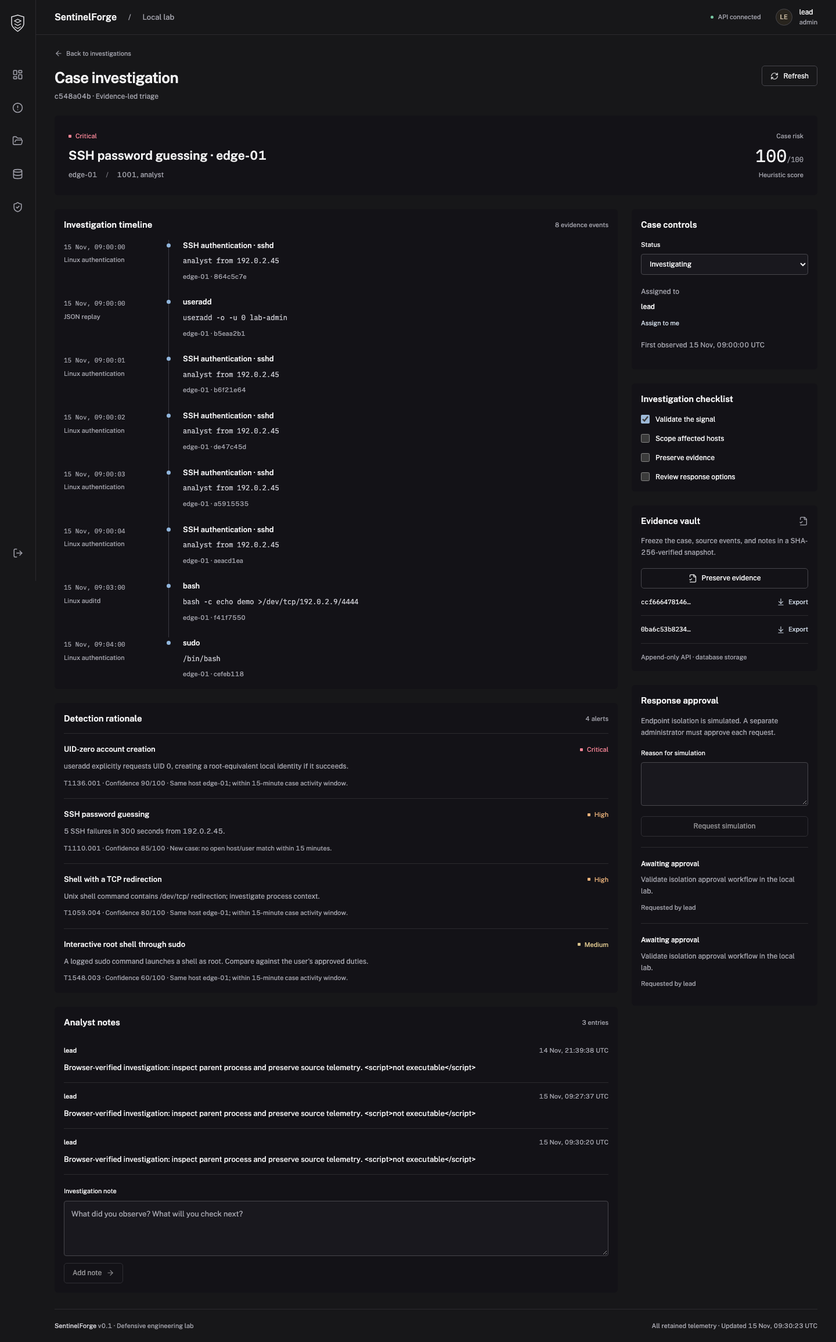
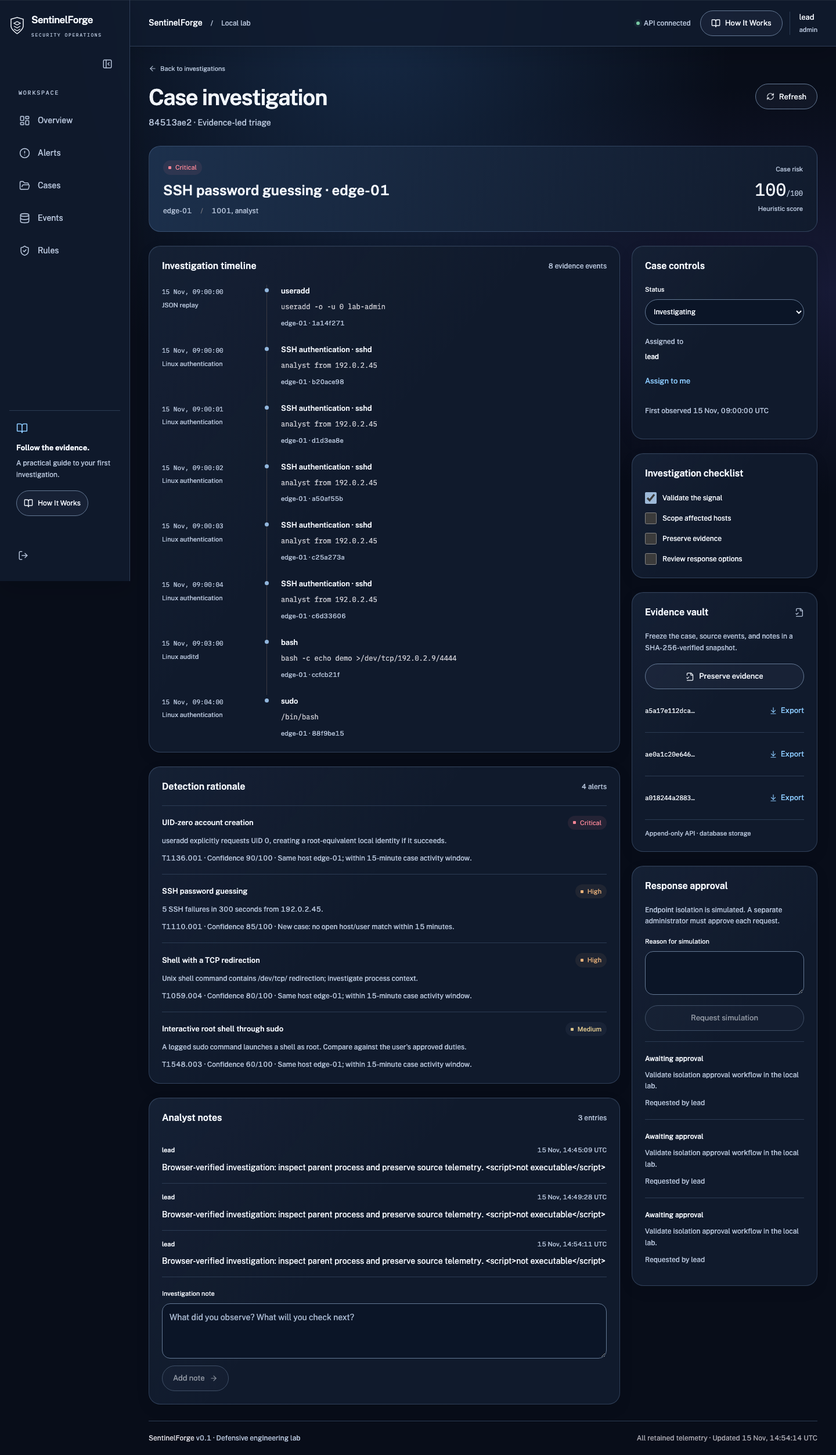
Document modernization design system security review and validation

diff --git a/docs/MODERNIZATION.md b/docs/MODERNIZATION.md
@@ -1,0 +1,70 @@
+# SentinelForge modernization — 2026-11-15
+
+This release updates the existing React/FastAPI platform with a midnight liquid-glass interface and a complete `/how-it-works` guide. The detection pipeline, authentication modes, API contracts, database operations and synthetic public-demo boundary are preserved.
+
+## Environment and discovery
+
+The official OpenAI curated skill catalog was inspected with the bundled Skill Installer. Installed capabilities already covered the work: Skill Creator/Installer, security-best-practices, frontend design guidance, the Vercel React/deployment/services/verification skills, native browser control, repository Playwright, and connected GitHub/Vercel tools. Plugin catalog discovery confirmed GitHub and Vercel were available. No duplicate external skill or plugin was installed.
+
+The pre-existing repository-specific `sentinelforge-design-system` skill was adopted, configured as version 1.1.0, given a default prompt and validated successfully with Skill Creator's `quick_validate.py`. It now references the implemented tokens/components and accurately documents unavailable Codex Security tooling. Deque's official `@axe-core/playwright` 4.14.0 was added as a development-only accessibility tool; no runtime UI, routing or animation dependency was added.
+
+Parallel frontend/security review attempts hit an account usage limit. Review continued in the main session. This report does not claim independent reviews or unavailable proprietary scans.
+
+## Architecture and actual capabilities
+
+- React 19 / TypeScript 5.9 / Vite 7 / Tailwind 4; self-hosted Public Sans and IBM Plex Mono; Lucide icons. The existing workspace retains state-based views, now synchronized with validated `?view=` URLs and browser history. The guide is loaded through React.lazy and has a separate Vite HTML entry for direct loading and metadata.
+- Python 3.12 / FastAPI / Pydantic / SQLAlchemy. SQLite for native local use and PostgreSQL for Docker. All existing API contracts, role dependencies, body caps, input models and evidence calculations remain unchanged.
+- Six supported input adapters, seven experimental behavior rules with a documented Sigma subset and pinned MITRE ATT&CK metadata. Host/non-generic-user correlation uses a 15-minute case activity window. Cases retain notes, checklist, assignment/status, evidence snapshots and simulation approvals.
+- Authenticated mode uses viewer/analyst/admin/ingest identities. The explicit token-free launcher binds loopback and validates peer/Host/Origin/Fetch Metadata. The Vercel entrypoint isolates a fixed synthetic snapshot in an in-memory query-only database and rejects mutations.
+- Vercel retains the existing frontend/backend Services project and Git production integration. GitHub Actions retains backend/PostgreSQL, authenticated browser and Compose jobs, with new public-demo/guide/axe coverage.
+
+## Interface and guide
+
+The desktop rail is now a labeled, collapsible sidebar. Mobile uses a dialog menu with focus wrapping, Escape and focus restoration. Navy surfaces, fine blue edges, inset highlights, restrained reflections and selective backdrop blur create depth; evidence tables remain opaque. Pill buttons, navigation, filters, input controls and status chips share focus/hover/disabled treatments. Layouts reflow through desktop, tablet, mobile and 320px widths. Reduced motion, forced colors and opaque material fallbacks are included.
+
+The visible Demo Visitor/avatar presentation was removed from `frontend/src/main.tsx` (the former topbar identity block). The API's internal read-only demo identity remains intact. Real local and authenticated identity/sign-out behavior remains intact. Public navigation links to the guide instead of showing a fake account.
+
+The guide includes the requested hero; a factual introduction; four implemented feature categories; eight interactive workflow steps with public/local instructions, outcomes, diagrams and troubleshooting; five expandable architecture stages; verified security/privacy boundaries; seven native FAQ disclosures; and real workspace/repository actions. Steps support arrow keys, Home and End. The workflow diagram is explicitly labeled as an illustration. No AI, live monitoring, external reputation or real host isolation is implied.
+
+## Changed files
+
+| Area | Files |
+|---|---|
+| Shared system | `.agents/skills/sentinelforge-design-system/{SKILL.md,agents/openai.yaml}`, `DESIGN.md`, `frontend/src/components/glass.tsx`, `frontend/src/modern.css` |
+| Workspace | `frontend/src/main.tsx`, `frontend/src/style.css` |
+| Guide/routing | `frontend/src/HowItWorks.tsx`, `frontend/src/guide.css`, `frontend/how-it-works/index.html`, `frontend/vite.config.ts`, `backend/sentinelforge/api.py` |
+| Tests/tooling | `frontend/e2e/modernization.spec.ts`, `frontend/e2e/workflow.spec.ts`, `tests/test_frontend_routes.py`, `frontend/package.json`, `frontend/pnpm-lock.yaml`, `.github/workflows/ci.yml` |
+| Hosting | `vercel.json`, `.vercelignore` |
+| Documentation/evidence | `README.md`, `docs/VERCEL.md`, `docs/MODERNIZATION.md`, `docs/SECURITY_REVIEW.md`, `docs/design/*`, updated `docs/screenshots/*` |
+
+## Security outcome
+
+See [the targeted review](SECURITY_REVIEW.md) for evidence, severity and residual risks. Missing security headers on Vercel's static HTML were addressed at ingress. Server-side role checks, synthetic-data isolation, in-memory browser credentials, escaped evidence rendering and two-person simulation approval remain covered. The fixed guide route cannot swallow API paths. Dependency audits report no known advisories. A clean audit is not proof of security.
+
+## Accessibility, visual review and performance
+
+Axe's WCAG 2 A/AA, 2.1 AA and 2.2 AA tags are checked on all five workspace views, case detail, the guide and mobile dialog. Keyboard tests cover step navigation, FAQ disclosure, dialog focus wrapping/Escape/restoration, navigation and authentication retention. Screenshots cover 1440, 768, 390 and 320px, plus reduced motion/opaque and forced-color states. A 200% CSS-zoom check and horizontal overflow assertions pass. Native controls and semantic markup remain the foundation. These checks are not a complete manual screen-reader audit or WCAG certification.
+
+Baseline compressed assets: dashboard JavaScript 79,489 bytes and CSS 7,510 bytes. The modernization adds about 2.3 KB compressed to initial JavaScript; guide code (~7.5 KB compressed) and guide CSS (~3.2 KB) load only on that route. Initial CSS grows to about 10.5 KB compressed for shared material, responsiveness and fallbacks. Fonts remain self-hosted; no raster artwork or remote font requests were added. Motion is finite and uses transforms/opacity; no per-row blur.
+
+One local Chromium sample after fonts settled measured dashboard LCP 52ms / CLS 0.0409 and guide LCP 64ms / CLS 0.000011. These are unthrottled local lab observations, not mobile field performance, INP, a percentile, or a Lighthouse score. The browser test records fresh measurements to `work/modernization/lab-metrics.json`; network/device conditions will change results.
+
+## Validation
+
+- Production TypeScript check and Vite build pass; guide HTML and lazy chunks are emitted.
+- Prettier check passes; Ruff lint and formatting checks pass.
+- 61 Python tests pass; measured backend coverage is 94.92% (85% gate).
+- Authenticated browser tests cover replay, case updates/notes/checklists, evidence export, simulation requests, viewer restrictions, filters, responsive layouts, guide/session/sign-out behavior and invalid/duplicate JSON imports.
+- Public browser tests cover no sign-in, absent Demo Visitor, actual evidence export, denied mutation, guide deep links/history and all interactive steps, architecture, FAQ, mobile menus, reduced motion, responsive layouts, axe and lab metrics.
+- Public snapshot reproducibility check passes; Python/frontend audits report zero known advisories.
+- Existing Starlette TestClient/httpx deprecation and Node color-environment warnings are non-failing. No suppressed application error is counted as a pass.
+
+## Release record
+
+The implementation is released to the existing `aashleshshet/SentinelFORGE` main branch and `sentinelforge` Vercel project. Exact commit, CI run and hosted verification results are recorded below after release. No force push, environment credential change or database migration is required.
+
+## Remaining limitations and next steps
+
+The platform remains an experimental single-tenant defensive lab. The public site remains synthetic and read-only; the local workspace remains editable. Static bearer identities have no expiry/MFA, IOC enrichment is local-only, response actions are simulations, detection coverage is narrow, and snapshots are hashed rather than signed/WORM. Automatic retention, signed collectors, tenant isolation and real endpoint response are not implemented.
+
+Before a remote editable deployment, review identity/session management, retention/quotas, aggregate-query scaling, distributed limits and durable external audit. Add manual assistive-technology and Safari/Firefox/device testing, and collect real-user performance measurements before making broader accessibility or performance claims. Vercel Services remains a beta platform dependency; existing configuration is retained.

diff --git a/.agents/skills/sentinelforge-design-system/SKILL.md b/.agents/skills/sentinelforge-design-system/SKILL.md
@@ -1,0 +1,72 @@
+---
+name: sentinelforge-design-system
+description: Design, modernize, implement, or visually review SentinelForge frontend screens using its midnight liquid-glass design system while preserving security and API behavior. Use only for SentinelForge UI work, not unrelated apps or backend-only tasks.
+metadata:
+  version: "1.1.0"
+---
+
+# SentinelForge design system
+
+Apply this direction to authorized UI work. Reusable native primitives live in `frontend/src/components/glass.tsx`; shared midnight tokens and material behavior live in `modern.css`, with guide-specific layout in `guide.css`. The guide is lazy-loaded, and Vite emits a separate HTML entry for `/how-it-works`. Read `PRODUCT.md`, `DESIGN.md`, `SECURITY.md`, `docs/THREAT_MODEL.md` and relevant source before editing. The frontend uses React 19, TypeScript, Vite 7, Tailwind 4, Public Sans, IBM Plex Mono and Lucide. Reuse the existing dependencies and build; do not migrate frameworks for a restyle.
+
+The user requested midnight liquid-glass modernization. This intentionally supersedes the old `DESIGN.md` visual prohibitions on blur/gradients and its small control radii for that modernization. Retain its evidence-led workflows, truthful data, severity meanings and analyst readability. Update visual documentation only during authorized implementation. This skill does not itself authorize application edits or deployment.
+
+## Security and behavior invariants
+
+- Preserve API contracts, endpoint paths, types, filters, evidence exports, error handling, pending states and rollback on failed mutations. Counts and timestamps come from API data; never invent live telemetry or operational claims.
+- Preserve memory-only bearer credentials, role checks, sign-in/sign-out and server authorization. Never persist tokens in localStorage, URLs, screenshots or logs; never substitute UI-only access checks.
+- Keep authenticated operation, trusted loopback local mode and the public synthetic demo distinct. Public demo remains read-only with isolated synthetic data and rejected mutations. Never enable local mode or operator credentials on a public deployment.
+- Retain two-person simulation approval, simulation-only semantics and restricted raw evidence access. Render telemetry/notes as untrusted text. Do not add unsafe HTML rendering, remote fonts, trackers or CSP relaxations for styling.
+- Do not incidentally change auth, backend security, database or deployment boundaries. Identify and separately scope any interaction requiring a contract change.
+
+## Visual direction and tokens
+
+Create a premium cybersecurity work surface: midnight navy depth, restrained ice-blue highlights, precise hierarchy and calm data density. Avoid ornamental hacker imagery, neon everywhere, fictitious charts and glass on every record. Use glass chiefly for navigation, toolbars and overlays; use stable opaque surfaces for evidence and tables.
+
+Centralize semantic CSS custom properties in the existing style system. These are starting targets, not prevalidated contrast pairs; test rendered combinations:
+
+| Token family | Target |
+|---|---|
+| Canvas / opaque surface / raised | `#080D19` / `#101A2C` / `#17243A` |
+| Text / secondary text / accent | `#F2F6FC` / `#B4C2D8` / `#8CCBFF` |
+| Glass fill / edge | midnight navy at 80–90% opacity / pale blue at 16–24% opacity |
+| Severity | preserve critical/high/medium/positive semantics, with labels and icons |
+| Radius | controls/nav `999px`; panels `16–20px`; orderly compact data cells |
+| Spacing | shared `4, 8, 12, 16, 24, 32, 48px` scale |
+| Type | existing self-hosted Public Sans; IBM Plex Mono for IDs, timestamps and tabular values |
+| Motion | `120ms`, `180ms`, `240ms`; shared `cubic-bezier(.2,.8,.2,1)` easing |
+
+Use readable body sizing around 14–16px; reserve smaller metadata for secondary information and verify zoom. Extract reusable Button, IconButton, PillNav, GlassSurface, StatusBadge, Field and Dialog primitives when justified by repetition. Share hover, active, focus, disabled, loading and error states. Retain semantic links/buttons and accessible names.
+
+## Authentic, accessible glass
+
+- Combine translucent navy fill, backdrop blur around 12–20px, restrained saturation, a fine luminous edge, subtle inset highlight and soft directional shadow. Use a controlled tonal background so transmission is visible without reducing readability. Do not claim physical refraction for a CSS effect.
+- Provide an opaque surface first; enhance with `@supports (backdrop-filter: blur(1px))` and supported prefixed equivalents. Keep text/icons fully opaque and preserve identical controls when filters are unsupported.
+- Measure contrast on the composited result and worst expected background: at least 4.5:1 for normal text, 3:1 for large text and essential control/focus boundaries. Alpha borders alone are not reliable control boundaries.
+- Provide solid treatments for forced-colors and supported reduced-transparency preferences. No moving distortion behind text or evidence.
+- Make navigation and interactive controls pill-shaped with adequate padding; aim for 44px touch targets. Do not pill-shape dense tables. Indicate current navigation with shape/text as well as color.
+- Preserve keyboard order, visible focus, dialog focus trapping/restoration, Escape behavior, screen-reader labels and non-color severity cues. Test 200% zoom and 320px reflow; tables may scroll within a labeled region rather than overflow the page.
+
+## Motion and production performance
+
+- Use shared duration/easing tokens for transitions; prefer opacity and small transforms. Avoid continuous pulse, parallax, tilt, bouncing panels and auto-moving decoration during investigation.
+- Under `prefers-reduced-motion: reduce`, remove nonessential transforms, animated highlights/backgrounds, smooth scrolling and staged entrances. Essential state changes remain immediate and understandable.
+- Never animate blur, shadows or layout dimensions on repeated lists. Avoid nested backdrop filters and full-screen repainting effects. Limit glass to a few visible layers; apply `will-change` temporarily only when profiling justifies it.
+- Keep fonts self-hosted; do not add a motion/glass library where CSS suffices. Lazy-load noncritical imagery, declare dimensions, prefer optimized AVIF/WebP and keep decoration out of critical data paths.
+- Compare production bundle and mobile rendering with the pre-change baseline. No unexplained dependency/bundle growth; investigate regressions before signoff. Target LCP <=2.5s, INP <=200ms and CLS <=0.1 at the 75th percentile where field data exists. Label lab measurements as lab evidence, never as field compliance.
+
+## Verification and phase routing
+
+Use this skill for visual decisions and installed Vercel `react-best-practices` for React review. Optional third-party Impeccable/Taste guidance must not override the requested glass/pill direction or security invariants. Do not invoke unrelated site-generation workflows for this existing repository.
+
+Use native Codex browser control for interactive visual review and the repository's Playwright tests for repeatable regressions. Read current browser tool documentation; do not assume Playwright CLI or a separate REPL exists. Inspect screenshots at 390x844, 768x1024 and 1440x1000, plus 320px reflow, relevant breakpoints, keyboard focus, reduced motion, opaque fallback and loading/error/empty states. Check horizontal overflow and sticky controls covering content. Compare before/after screenshots using the same synthetic fixtures; inspect images rather than just checking files exist.
+
+Use the installed `security-best-practices` skill for requested security reviews, with React and FastAPI reference guidance. Discover current tools before referring to Codex Security: that plugin was not available in the modernization session. Use repository tests, direct source review and dependency audits when it is unavailable; never claim an independent scan ran. Dependency audits do not replace security review.
+
+For CI diagnosis, use the installed GitHub connector's workflow runs, steps/logs and artifacts; anchor results to the exact commit/attempt. Existing CI covers Python/Ruff/pytest/PostgreSQL, frontend build/audit/Playwright and Docker Compose. Preserve these checks and test affected behavior, including role denials and read-only demo behavior when touched.
+
+For separately authorized releases, use Vercel `deployments-cicd`, `vercel-services`, `verification` and protected-deployment access guidance as needed. Read `docs/VERCEL.md`: this deploys a Vite frontend plus Python API, not Next.js. Verify deployment commit, health, demo identity, mutation rejection, assets, representative flows and runtime logs. READY alone is not end-to-end success.
+
+Use built-in `imagegen` for requested documentation/visual assets. Distinguish illustrations from real application screenshots and security evidence. Do not send credentials or private telemetry in prompts.
+
+Report changed components/tokens, preserved contracts, observed verification and checks that could not run. This skill provides instructions; it does not mechanically enforce CI gates.

diff --git a/DESIGN.md b/DESIGN.md
@@ -1,97 +1,42 @@
----
-name: SentinelForge
-description: Evidence-led security operations, designed for sustained investigation.
-colors:
-  ground: '#171719'
-  surface: '#131217'
-  raised: '#212023'
-  border: '#2b2a2e'
-  control: '#47464c'
-  text: '#f2f2f3'
-  muted: '#a3a3ac'
-  accent: '#79a9df'
-  critical: '#f48495'
-  high: '#e9b17a'
-  medium: '#d7c18b'
-  positive: '#78c9a4'
-typography:
-  title:
-    fontFamily: Public Sans, sans-serif
-    fontSize: 26px
-    fontWeight: 600
-    lineHeight: 1.3
-    letterSpacing: '-0.02em'
-  body:
-    fontFamily: Public Sans, sans-serif
-    fontSize: 13px
-    fontWeight: 400
-    lineHeight: 1.65
-  data:
-    fontFamily: IBM Plex Mono, monospace
-    fontSize: 12px
-    fontWeight: 400
-    lineHeight: 1.5
-  label:
-    fontFamily: Public Sans, sans-serif
-    fontSize: 11px
-    fontWeight: 400
-    lineHeight: 1.5
-rounded:
-  panel: 6px
-  control: 5px
-spacing:
-  inline: 8px
-  panel: 16px
-  section: 24px
-components:
-  button-primary:
-    backgroundColor: '{colors.text}'
-    textColor: '{colors.ground}'
-    rounded: '{rounded.control}'
-    height: 35px
-    padding: 0 14px
-  panel:
-    backgroundColor: '{colors.surface}'
-    rounded: '{rounded.panel}'
-    padding: 16px
----
+# SentinelForge design system
 
-## Overview
+A midnight work surface for evidence-led investigation. The November 2026 modernization replaces the original charcoal rail with layered navy materials, pill controls and a readable workspace sidebar. Preserve the real API, severity meanings and analyst workflows.
 
-A quiet, dark operating surface. The analyst should recognize the queue, find exact evidence and record a decision without visual distraction. Product identity comes from the shield/stack mark, measured numeric typography and technique-count strips.
+## Tokens and typography
 
-## Colors
+`frontend/src/modern.css` owns shared material tokens; `style.css` retains established evidence/table layouts and `guide.css` owns the lazy-loaded guide layout.
 
-Charcoal separates work areas by small tone changes. Blue identifies selections and ATT&CK count marks. Severity colors encode critical, high, medium and low signals with text labels; color is never the sole status cue. Body text and muted metadata remain readable against the surfaces.
+| Token | Value |
+|---|---|
+| Canvas / surface / raised | `#080D19` / `#101A2C` / `#17243A` |
+| Text / secondary / accent | `#F2F6FC` / `#B4C2D8` / `#8CCBFF` |
+| Boundary / control boundary | `#2B3B53` / `#647995` |
+| Glass | 88% navy, 16px blur, 135% saturation, 21% pale-blue edge |
+| Control / panel radius | 999px / 16–20px |
+| Motion | 120 / 180 / 240ms; cubic-bezier(.2,.8,.2,1) |
 
-## Typography
+Self-hosted Public Sans provides interface text; IBM Plex Mono identifies timestamps, IDs and measured counts. Body text is 14px, guide prose 14–16px, metadata 11–12px. Large headings and counts establish hierarchy without changing the meaning of the underlying data. Color-coded severity always includes a text label.
 
-Public Sans carries interface language. IBM Plex Mono is reserved for identifiers, timestamps, commands and measurements. Large counts are regular weight; there is one page heading. Most metadata is compact at 11–12px, with task text at 13px. This density is deliberate for an analyst workstation; mobile content stacks instead of shrinking.
+## Material and components
 
-## Layout
+Use glass for navigation and modal chrome. Use opaque panels and evidence surfaces for sustained reading; never add a backdrop filter per row or nested scrolling layer. Fine edges, inset highlights and restrained blue/violet reflections add depth. Opaque surfaces are the base fallback, with blur enabled only through `@supports`; reduced transparency and forced colors have explicit treatments.
 
-A 62px desktop rail provides five destinations with accessible names. A compact bar names the product, local scope and active identity. Main gutters are 32px, with 24px gaps. At 1,100px the overview stacks. At 760px the rail becomes a labeled bottom navigation bar; case controls and timelines become a single column. Tables have contained horizontal overflow where needed, rather than widening the page.
+`components/glass.tsx` centralizes native Button, Input, Panel, Navbar, Sidebar, Table and Modal primitives. Existing semantic selects and details provide dropdowns and accordions. No extra UI or motion library is required. Native dialog behavior supplies inert background/Escape/focus restoration, with explicit first/last keyboard wrapping for consistent platform behavior.
 
-## Elevation & Depth
+## Navigation and layout
 
-Flat surfaces and quiet rules separate information. No glow, gradient, ornamental blur or floating decorative elements. No card shadows.
+Desktop uses a 224px labeled sidebar that collapses to 80px. Tablet uses the compact rail; mobile uses a named, keyboard-accessible modal menu. Controls generally target 44px; compact data links retain readable spacing. Tables scroll within their work panels, not across the page. Safe-area spacing protects mobile dialogs and footers.
 
-## Shapes
+Five workspace destinations use validated `?view=` URLs. `/how-it-works` is a lazy-loaded route with its own built HTML entry and metadata. Internal navigation preserves in-memory authentication. Back/forward clears stale filters and case selection. The public header shows guide navigation; real local or authenticated identity and sign-out controls remain mode-dependent. No fake user profile is shown.
 
-Small panel/control corners soften dense structures. The user identity alone is circular. Selection uses a narrow line. Technical records and timelines remain rectangular and orderly.
+## Motion and accessibility
 
-## Components
+Use short transform/opacity entrances, press feedback, chart entrances and progressive dialog transitions. Skeleton motion ends after three iterations. No perpetual ambient animation, parallax, animated blur or auto-moving evidence. Reduced motion removes nonessential transitions and animations.
 
-Primary actions use a pale fill; secondary controls use borders. Every icon-only control has an accessible label. Focus rings are visible; reduced-motion preferences disable transitions. Filter bars sit over their affected list. Empty, error, loading and disabled states retain clear wording. Errors preserve the last successful data with a stale-data notice.
+Provide visible focus, semantic headings, labels, skip links, disclosure states, tab arrow/Home/End navigation and modal focus wrapping. Validate actual composited colors with axe and inspect rendered screenshots. Automated checks are not a WCAG certification or a replacement for manual assistive-technology testing.
 
-The ATT&CK signal strip opens a technique-filtered alert list. Cases expose UTC chronology, exact evidence, authored rationale and separate simulated-response approval. Checkbox feedback updates immediately, then reconciles with the API or rolls back on failure.
+## Product truth
 
-## Do's and Don'ts
+All dashboard counts and timestamps come from the API. The guide diagram is explicitly an illustration. The public demo is a fixed synthetic snapshot, not a live feed. Local editing, API role checks, simulated responses and evidence integrity limits stay explicit. Do not invent AI, reputation services, native EVTX ingestion, real endpoint actions, signed custody or compliance claims.
 
-- Do derive counts and timestamps from the API.
-- Do use semantic labels next to status colors.
-- Do distinguish observed signals from compromise conclusions.
-- Do keep data typography tabular and columns aligned.
-- Don't invent live integrations, traffic histories or efficacy claims.
-- Don't add decorative imagery, animations, gradients or neon glows.
-- Don't put implementation details in the analyst's task flow unless they explain a decision or a genuine limit.
+The repository skill in `.agents/skills/sentinelforge-design-system` captures these conventions for future changes. See `docs/MODERNIZATION.md` for implementation and verification evidence.

diff --git a/docs/SECURITY_REVIEW.md b/docs/SECURITY_REVIEW.md
@@ -1,0 +1,40 @@
+# Modernization security review — 2026-11-15
+
+The modernization preserves the local/authenticated/public-demo trust boundaries. No exploitable critical or high-severity regression was identified in this targeted review. One existing hosting-layer gap was fixed: the Vercel static HTML did not receive the security headers already supplied by FastAPI. This is a scoped source/configuration review with tests and dependency checks, not a penetration test or proof that the application is vulnerability-free.
+
+## SF-01 — Missing static frontend browser protections (Medium, fixed)
+
+- **Rules:** REACT-CSP-001, REACT-HEADERS-001.
+- **Evidence:** a production HEAD request before modernization returned HTTP 200 for `/` with no Content-Security-Policy, X-Frame-Options, X-Content-Type-Options or Referrer-Policy. FastAPI's middleware at `backend/sentinelforge/api.py:80` already supplied these, but Vercel serves frontend assets separately.
+- **Impact:** framing and script execution lacked the intended browser defense-in-depth on the public HTML shell. No XSS exploit or unauthorized data access was demonstrated.
+- **Fix:** `vercel.json:41` adds same-origin CSP, frame denial, nosniff, no-referrer and restricted camera/microphone/geolocation permissions at public ingress. Scripts allow neither unsafe-inline nor unsafe-eval. The existing style-only unsafe-inline exception is retained for API-derived chart widths; this change does not weaken the API policy.
+- **Verification:** local compiled browser tests run under FastAPI's matching CSP. Production header and browser verification is recorded in `MODERNIZATION.md` after deployment.
+
+## SF-02 — Static operator credentials (existing limitation, Medium outside the trusted lab)
+
+- **Rules:** REACT-AUTH-001 / FASTAPI-AUTH-002.
+- **Evidence:** `backend/sentinelforge/config.py:10` defines named role/token identities with length validation; `backend/sentinelforge/api.py:168` compares bearer tokens without an expiry mechanism. Tokens are kept only in React memory and are not written to localStorage, sessionStorage, URLs or logs.
+- **Impact:** a stolen operator token remains usable until the operator rotates configuration and restarts. There is no MFA or central session revocation.
+- **Disposition:** documented, unchanged to preserve the explicitly requested local workflow. The public deployment ignores operator identities and denies mutations. Before any remote editable deployment, use a reviewed identity/session system with scoped, expiring credentials and MFA. Do not expose token-free loopback mode.
+
+## SF-03 — Retained-data growth and per-process limits (existing limitation, Low in the local lab)
+
+- **Rule:** FASTAPI-LIMITS-001.
+- **Evidence:** `backend/sentinelforge/api.py:567` loads retained alerts for aggregate statistics; `api.py:33` keeps rate-limit state in process memory. No automatic retention or global quota is implemented.
+- **Impact:** large operator datasets can increase query cost and disk use. Multiple processes do not share limiter state.
+- **Disposition:** unchanged in this UI scope. The public demo has a fixed 18-event snapshot. Add retention, aggregate queries/indexes, load testing and distributed/edge controls before broad operational ingestion.
+
+## Checks and preserved controls
+
+- **Access control:** all data/mutation endpoints reviewed for explicit role dependencies. Public mutations are denied before body parsing, and SQLite query-only mode independently rejects writes. Two-person response approval remains enforced server-side.
+- **Route safety:** `/how-it-works` serves one fixed build path. It is not an API/asset catch-all. Regression tests check authenticated API denial, missing asset/API 404s and rejected POST on the document route.
+- **XSS and redirects:** no new raw HTML sinks, eval, string-to-code, third-party script loading or unsafe URL construction. Query view values are allowlisted. Evidence and notes remain escaped React text. External links use constant HTTPS destinations with noreferrer.
+- **Injection and input:** SQLAlchemy parameterization, literal query escaping, safe YAML, bounded JSON/event/text fields and no command-execution handler. Browser JSON validation remains backed by server validation. New import tests cover invalid structure and duplicate batches.
+- **Privacy:** no cookies, persistent browser token storage, analytics or external reputation requests were added. Existing telemetry/error logging exclusions remain intact. The reviewer did not print environment credentials.
+- **Secrets:** 103 tracked/unignored files at the pre-release scan were checked for common credential/private-key patterns; no matches. Test-only fixture credentials and non-credential local/public placeholders are intentional. Pattern scans are not exhaustive secret detection.
+- **Dependencies:** pip-audit against requirements.lock reported no known vulnerabilities; pnpm audit reported zero in all categories. Axe 4.14.0 is the only new development dependency, installed from the official maintained package with installation scripts disabled. No new production library.
+- **Deployment boundary:** existing Vercel Services, isolated public app entrypoint, Docker internal networks and loopback binding remain intact. The review did not alter credentials, databases or production environment values.
+
+## Review limits
+
+The available security-best-practices skill supplied React, generic browser and FastAPI guidance. The Codex Security plugin was not available, and attempted parallel reviewers hit an account usage limit; no independent agent/security scanner result is claimed. Browser checks use Chromium, not a full browser/device matrix. Automated accessibility and dependency checks do not establish certification, legal custody, secure production tenancy or complete vulnerability coverage. Existing signed-collector, retention, encryption-at-rest, least-privilege DB and external audit limitations remain documented in SECURITY.md and THREAT_MODEL.md.

diff --git a/docs/VERCEL.md b/docs/VERCEL.md
@@ -13,7 +13,7 @@ Production deployment `dpl_8z2ZWXWbpsaouyX53AgMGKMnk6JX` reached READY for code 
 - All three [GitHub CI jobs](https://github.com/aashleshshet/SentinelFORGE/actions/runs/43722177935) passed for the same code: backend/PostgreSQL, authenticated browser workflow and Docker Compose deployment.
 - The scoped Vercel runtime scan returned no error/fatal records during the post-deployment verification window. This is a point-in-time check, not continuous monitoring or a production security review.
 
-This final live-link and verification update changes documentation only.
+For the subsequent interface/guide release, see [the modernization release record](MODERNIZATION.md#release-record). The entries above describe the original public-demo deployment.
 
 ## Data and isolation
 
@@ -42,7 +42,11 @@ python -m uvicorn app:app --host 127.0.0.1 --port 8002
 In another terminal:
 
 ```sh
-SF_PUBLIC_DEMO=1 SF_BASE_URL=http://127.0.0.1:8002 pnpm --dir frontend exec playwright test public-demo.spec.ts
+SF_PUBLIC_DEMO=1 SF_BASE_URL=http://127.0.0.1:8002 pnpm --dir frontend exec playwright test public-demo.spec.ts modernization.spec.ts
 ```
 
 To refresh the demo after changing fixtures or rules, run `python scripts/build_public_demo.py`, review its diff, then commit the new snapshot. A stale source digest fails closed at startup. Never generate this file from a real operator database.
+
+## Guide routing and frontend headers
+
+Vite builds `how-it-works/index.html` with page-specific metadata. Exact service-scoped rewrites serve it at `/how-it-works` and `/how-it-works/`; unknown API and asset routes are not converted into HTML. FastAPI serves the same fixed route locally. Public ingress sets CSP, nosniff, frame denial, no-referrer and restricted browser permissions for static frontend responses as well as the API. The policy preserves the existing style-only inline exception for chart widths, with scripts restricted to the same origin.

diff --git a/README.md b/README.md
@@ -4,7 +4,9 @@
 
 Built for SOC and detection-engineering portfolios: Python 3.12 / FastAPI / SQLAlchemy / PostgreSQL, with a React / TypeScript / Tailwind dashboard. MIT licensed. This is an experimental single-tenant platform, not an enterprise SIEM or a substitute for a reviewed incident-response process.
 
-**[Open the public demo](https://sentinelforge-theta.vercel.app)** — no sign-in; read-only synthetic telemetry. Use the local setup below for the full investigation workflow.
+**[Open the public demo](https://sentinelforge-theta.vercel.app)** — no sign-in; read-only synthetic telemetry. **[How It Works](https://sentinelforge-theta.vercel.app/how-it-works)** walks through the real workflow. Use the local setup below for the full investigation workspace.
+
+See the [modernization and validation report](docs/MODERNIZATION.md) for the midnight glass interface, accessible guide and release evidence.
 
 ![SentinelForge dashboard showing synthetic lab telemetry](docs/screenshots/desktop.png)
 

diff --git a/docs/design/finish-review.md b/docs/design/finish-review.md
@@ -1,3 +1,5 @@
+> Historical record of the original interface. The authorized midnight glass modernization supersedes its visual direction; see [DESIGN.md](../../DESIGN.md) and [MODERNIZATION.md](../MODERNIZATION.md).
+
 disposition: ship
 
 Main-session fallback review, 2026-11-15. Independent reviewer unavailable due to an account usage limit. The Impeccable engine, quality card and concept-seed verification were unavailable; this is a review against the user brief, persisted direction and rendered application, not a claim of complete automated skill validation. Code-led build; no approved visual comp.

diff --git a/docs/design/dashboard-contract.md b/docs/design/dashboard-contract.md
@@ -1,3 +1,5 @@
+> Historical record of the original interface. The authorized midnight glass modernization supersedes its visual direction; see [DESIGN.md](../../DESIGN.md) and [MODERNIZATION.md](../MODERNIZATION.md).
+
 # Dashboard direction contract
 Mode: Operate. The brief supplies product, audience, platform and dark-first design; no material product clarification was needed.
 THESIS: The analyst's first question is which signal deserves investigation. Lead with a working alert queue and its telemetry provenance.
